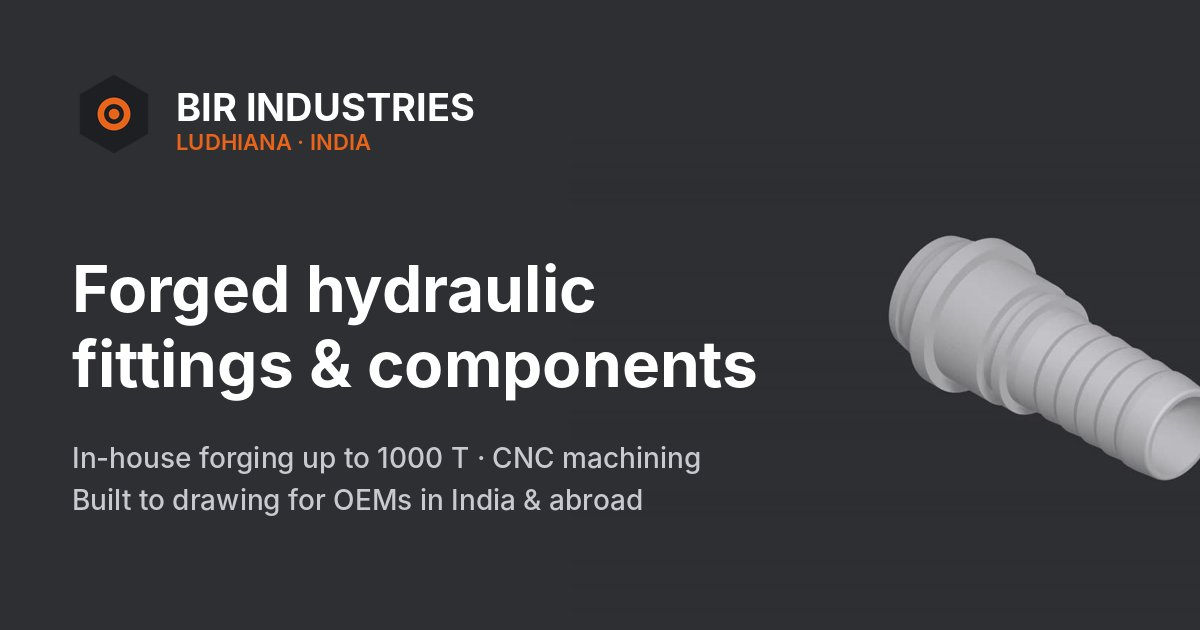
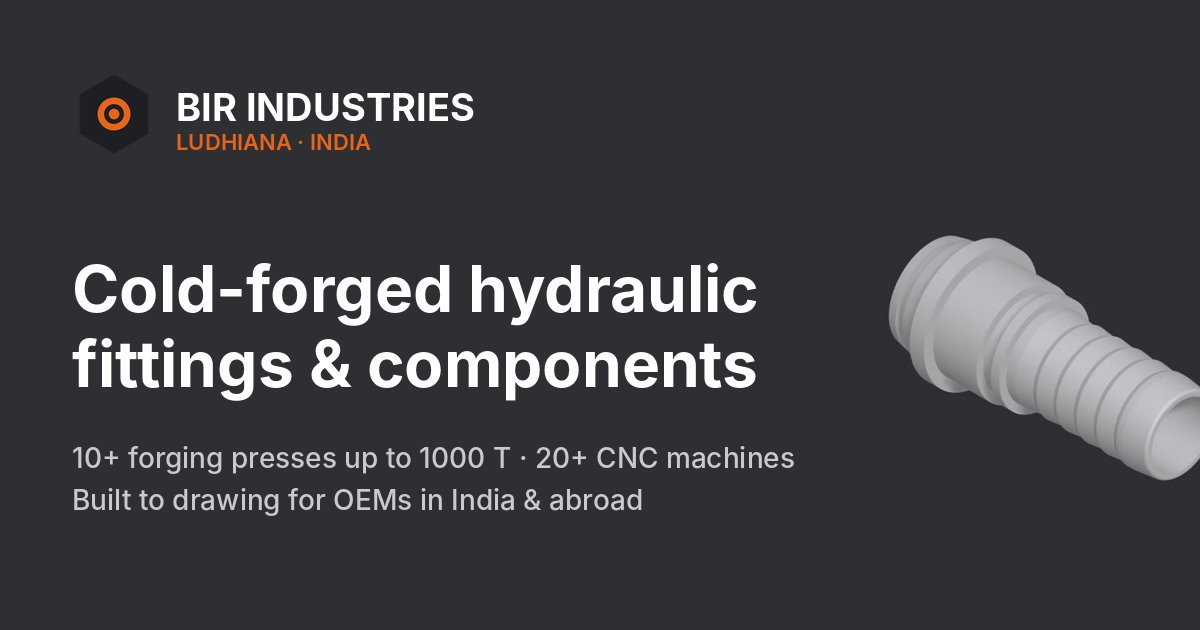
Cold forging, 10+ presses / 20+ CNC, real product photos
- Corrected process to cold forging throughout
- Updated capacity: 10+ cold forging presses up to 1000 T, 20+ CNC machines
- Added 'From our production floor' gallery and About photo (cropped, watermark-free)
- Added sales number +91 99887 73789

Claude-Session: https://claude.ai/code/session_01LtcHUoXVj2XuhRzJFuwNnT

Changed region(s): [[0.0617, 0.4222, 0.6475, 0.5127], [0.0617, 0.6937, 0.6783, 0.754]]

diff --git a/index.html b/index.html
@@ -4,8 +4,8 @@
   <meta charset="UTF-8">
   <meta name="viewport" content="width=device-width, initial-scale=1">
   <title>BIR Industries | Forged Hydraulic Fittings Manufacturer, Ludhiana, India</title>
-  <meta name="description" content="BIR Industries, Ludhiana (Punjab, India): manufacturer of closed-die forged and CNC-machined hydraulic hose ferrules, hose nipples, hex nuts, bent tubes and custom forgings. In-house 1000 T and 630 T forging presses. Supplying OEMs across India and export customers.">
-  <meta name="keywords" content="hydraulic fittings manufacturer India, forged fittings Ludhiana, hydraulic hose ferrule manufacturer, hose nipple manufacturer, hex nut forging, closed die forging Punjab, CNC machined components Ludhiana, hydraulic fittings exporter India">
+  <meta name="description" content="BIR Industries, Ludhiana (Punjab, India): manufacturer of cold-forged and CNC-machined hydraulic hose ferrules, hose nipples, hex nuts, bent tubes and custom components. 10+ cold forging presses up to 1000 T and 20+ CNC machines in-house. Supplying OEMs across India and export customers.">
+  <meta name="keywords" content="hydraulic fittings manufacturer India, forged fittings Ludhiana, hydraulic hose ferrule manufacturer, hose nipple manufacturer, hex nut forging, cold forging Punjab, CNC machined components Ludhiana, hydraulic fittings exporter India">
   <meta name="author" content="BIR Industries">
   <meta name="theme-color" content="#2e2f33">
   <link rel="canonical" href="https://www.birindustries.in/">
@@ -14,7 +14,7 @@
   <meta property="og:type" content="website">
   <meta property="og:site_name" content="BIR Industries">
   <meta property="og:title" content="BIR Industries | Forged Hydraulic Fittings, Ludhiana, India">
-  <meta property="og:description" content="Closed-die forged and CNC-machined hydraulic fittings and components, built to drawing for OEMs in India and abroad.">
+  <meta property="og:description" content="Cold-forged and CNC-machined hydraulic fittings and components, built to drawing for OEMs in India and abroad.">
   <meta property="og:url" content="https://www.birindustries.in/">
   <meta property="og:image" content="https://www.birindustries.in/assets/img/og-image.jpg">
   <meta property="og:image:width" content="1200">
@@ -46,7 +46,7 @@
     "@type": "LocalBusiness",
     "@id": "https://www.birindustries.in/#company",
     "name": "BIR Industries",
-    "description": "Manufacturer of closed-die forged and CNC-machined hydraulic fittings and components.",
+    "description": "Manufacturer of cold-forged and CNC-machined hydraulic fittings and components.",
     "url": "https://www.birindustries.in/",
     "logo": "https://www.birindustries.in/assets/img/icon-512.png",
     "image": "https://www.birindustries.in/assets/img/og-image.jpg",
@@ -69,9 +69,10 @@
     "contactPoint": [
       {"@type": "ContactPoint", "telephone": "+91-98728-12819", "contactType": "sales", "areaServed": ["IN","Worldwide"], "availableLanguage": ["English","Hindi","Punjabi"]},
       {"@type": "ContactPoint", "telephone": "+91-80546-40085", "contactType": "sales", "availableLanguage": ["English","Hindi","Punjabi"]},
+      {"@type": "ContactPoint", "telephone": "+91-99887-73789", "contactType": "sales", "availableLanguage": ["English","Hindi","Punjabi"]},
       {"@type": "ContactPoint", "telephone": "+91-92165-49785", "contactType": "customer service", "availableLanguage": ["English","Hindi","Punjabi"]}
     ],
-    "knowsAbout": ["Closed-die forging", "CNC turning", "Hydraulic hose fittings", "Hydraulic ferrules", "Hose nipples", "Hex nuts", "Bent tubes"]
+    "knowsAbout": ["Cold forging", "CNC turning", "Hydraulic hose fittings", "Hydraulic ferrules", "Hose nipples", "Hex nuts", "Bent tubes"]
   }
   </script>
 </head>
@@ -139,7 +140,7 @@
   </video>
   <div class="hero-shade"></div>
   <div class="wrap hero-inner">
-    <p class="eyebrow">Closed-die forging · CNC machining · Ludhiana, India</p>
+    <p class="eyebrow">Cold forging · CNC machining · Ludhiana, India</p>
     <h1 id="hero-title">Forged hydraulic fittings, built to your drawing.</h1>
     <p class="hero-lead">From steel billet to finished, inspected component under one roof. BIR Industries forges and machines hose ferrules, hose nipples, hex nuts and custom components for OEMs and hose-assembly makers across India and overseas.</p>
     <div class="hero-actions">
@@ -150,8 +151,8 @@
   <div class="hero-facts">
     <div class="wrap facts-grid">
       <div class="fact"><span class="fact-num">1000<small>T</small></span><span class="fact-label">Largest forging press</span></div>
-      <div class="fact"><span class="fact-num">3</span><span class="fact-label">Forging presses on site</span></div>
-      <div class="fact"><span class="fact-num">CNC</span><span class="fact-label">In-house turning &amp; finishing</span></div>
+      <div class="fact"><span class="fact-num">10<small>+</small></span><span class="fact-label">Cold forging presses</span></div>
+      <div class="fact"><span class="fact-num">20<small>+</small></span><span class="fact-label">CNC machines in-house</span></div>
       <div class="fact"><span class="fact-num">100<small>%</small></span><span class="fact-label">Made in India, forge-to-finish</span></div>
     </div>
   </div>
@@ -178,10 +179,14 @@
     <div>
       <p class="kicker">About BIR Industries</p>
       <h2 id="about-title">An integrated forge-to-finish manufacturer from India's engineering heartland.</h2>
+      <figure class="about-photo">
+        <picture><source srcset="assets/img/fitting-set.webp" type="image/webp"><img src="assets/img/fitting-set.jpg" alt="Zinc-plated hose nipples, ferrules and hex nuts made by BIR Industries" width="1200" height="500" loading="lazy"></picture>
+        <figcaption>Nipples, ferrules and nuts from our production, zinc plated</figcaption>
+      </figure>
     </div>
     <div class="about-copy">
       <p>BIR Industries is a manufacturer of hydraulic fittings and forged engineering components, located in Industrial Area C, Giaspura, Ludhiana, one of India's largest hubs for forging, fasteners and tractor components.</p>
-      <p>We control every critical step ourselves: billet cutting, closed-die forging on presses up to 1000 tonnes, CNC turning, threading, inspection and packing. Owning the whole process lets us hold tight tolerances, react quickly to schedule changes and keep pricing competitive for both domestic and international buyers.</p>
+      <p>We control every critical step ourselves: billet cutting, cold forging on more than 10 presses of up to 1000 tonnes, CNC turning on more than 20 CNC machines, threading, inspection and packing. Owning the whole process lets us hold tight tolerances, react quickly to schedule changes and keep pricing competitive for both domestic and international buyers.</p>
       <p>Every part starts as a 3D model, which is why you can examine our products in 3D below. Share your drawing or sample and we will forge and machine it to your specification.</p>
       <ul class="ticks">
         <li><svg class="ic"><use href="#i-check"/></svg>Forging, machining and inspection in-house</li>
@@ -216,7 +221,7 @@
           <h3>Hose Ferrule <span>(Socket / Cap)</span></h3>
           <p>Forged sleeve that is crimped or swaged over the hose to lock it onto the nipple. Internal serrations or threads are machined for a secure, leak-free grip at working pressure.</p>
           <dl class="specs">
-            <div><dt>Process</dt><dd>Closed-die forged, CNC turned</dd></div>
+            <div><dt>Process</dt><dd>Cold forged, CNC turned</dd></div>
             <div><dt>Types</dt><dd>Crimp (skive / non-skive), reusable screw-on</dd></div>
             <div><dt>Hose</dt><dd>Suited to SAE 100R / EN 853 / EN 857 hose</dd></div>
           </dl>
@@ -252,9 +257,9 @@
         </div>
         <div class="product-body">
           <h3>Hydraulic Hex Nut <span>(Swivel Nut)</span></h3>
-          <p>Hot-forged hex nuts with full grain flow for strength, machined with internal threads and retaining grooves for swivel fittings and tube connectors.</p>
+          <p>Cold-forged hex nuts with unbroken grain flow for strength, machined with internal threads and retaining grooves for swivel fittings and tube connectors.</p>
           <dl class="specs">
-            <div><dt>Process</dt><dd>Hot forged, CNC threaded &amp; grooved</dd></div>
+            <div><dt>Process</dt><dd>Cold forged, CNC threaded &amp; grooved</dd></div>
             <div><dt>Threads</dt><dd>BSP, UNF (JIC/ORFS), metric</dd></div>
             <div><dt>Hex</dt><dd>Sizes as per drawing or standard</dd></div>
           </dl>
@@ -281,10 +286,41 @@
       </article>
     </div>
 
+    <div class="parts-head">
+      <h3>From our production floor</h3>
+      <p>Actual parts made at our Ludhiana works, cold forged, CNC machined and zinc plated.</p>
+    </div>
+    <div class="parts-gallery">
+      <button class="g-item p-item p-wide" data-type="image" data-src="assets/img/ferrules-crimp.jpg" data-caption="Zinc-plated crimp ferrules">
+        <picture><source srcset="assets/img/ferrules-crimp.webp" type="image/webp"><img src="assets/img/ferrules-crimp.jpg" alt="Zinc-plated crimp ferrules" loading="lazy" width="1200" height="567"></picture>
+        <span class="g-cap">Crimp ferrules</span>
+      </button>
+      <button class="g-item p-item p-tall" data-type="image" data-src="assets/img/hose-nipples.jpg" data-caption="Barbed hose nipples in bulk">
+        <picture><source srcset="assets/img/hose-nipples.webp" type="image/webp"><img src="assets/img/hose-nipples.jpg" alt="Barbed hose nipples in bulk" loading="lazy" width="683" height="1200"></picture>
+        <span class="g-cap">Hose nipples</span>
+      </button>
+      <button class="g-item p-item " data-type="image" data-src="assets/img/ferrules-threaded.jpg" data-caption="Internally threaded ferrules">
+        <picture><source srcset="assets/img/ferrules-threaded.webp" type="image/webp"><img src="assets/img/ferrules-threaded.jpg" alt="Internally threaded ferrules" loading="lazy" width="1102" height="1200"></picture>
+        <span class="g-cap">Threaded ferrules</span>
+      </button>
+      <button class="g-item p-item " data-type="image" data-src="assets/img/hex-nuts.jpg" data-caption="Zinc-plated hydraulic hex nuts">
+        <picture><source srcset="assets/img/hex-nuts.webp" type="image/webp"><img src="assets/img/hex-nuts.jpg" alt="Zinc-plated hydraulic hex nuts" loading="lazy" width="1102" height="1200"></picture>
+        <span class="g-cap">Hex nuts</span>
+      </button>
+      <button class="g-item p-item " data-type="image" data-src="assets/img/spiral-fittings.jpg" data-caption="Straight and bent fittings for 1-1/4" spiral hose">
+        <picture><source srcset="assets/img/spiral-fittings.webp" type="image/webp"><img src="assets/img/spiral-fittings.jpg" alt="Straight and bent fittings for 1-1/4" spiral hose" loading="lazy" width="576" height="483"></picture>
+        <span class="g-cap">Spiral hose fittings</span>
+      </button>
+      <button class="g-item p-item " data-type="image" data-src="assets/img/ferrules-bulk.jpg" data-caption="Ferrules ready for dispatch">
+        <picture><source srcset="assets/img/ferrules-bulk.webp" type="image/webp"><img src="assets/img/ferrules-bulk.jpg" alt="Ferrules ready for dispatch" loading="lazy" width="1138" height="1200"></picture>
+        <span class="g-cap">Ferrules</span>
+      </button>
+    </div>
+
     <div class="custom-band">
       <div>
         <h3>Need something else? We forge to your drawing.</h3>
-        <p>Adaptors, unions, banjos, elbows, tees, flanges and other closed-die forgings and turned parts. Send a drawing (PDF, DWG, DXF, STEP) or a sample for a feasibility review and quotation.</p>
+        <p>Adaptors, unions, banjos, elbows, tees, flanges and other cold-forged and CNC-turned parts. Send a drawing (PDF, DWG, DXF, STEP) or a sample for a feasibility review and quotation.</p>
       </div>
       <a href="#rfq" class="btn btn-primary">Send your drawing <svg class="ic"><use href="#i-arrow"/></svg></a>
     </div>
@@ -318,8 +354,8 @@
     <ol class="process">
       <li><span class="step">01</span><h4>Design &amp; tooling</h4><p>Drawing review and 3D modelling; forging dies and machining programmes developed for each part.</p></li>
       <li><span class="step">02</span><h4>Material &amp; cutting</h4><p>Steel bar verified against mill certificates, then cut to weight-controlled billets on automatic circular saws.</p></li>
-      <li><span class="step">03</span><h4>Closed-die forging</h4><p>Billets heated and forged on 1000 T and 630 T presses for dense, continuous grain flow.</p></li>
-      <li><span class="step">04</span><h4>CNC machining</h4><p>Bores, seats, threads and grooves turned on CNC lathes to drawing tolerances.</p></li>
+      <li><span class="step">03</span><h4>Cold forging</h4><p>Billets formed at room temperature on knuckle-joint presses up to 1000 T: near-net shape, strong grain flow, clean surface and minimal scrap.</p></li>
+      <li><span class="step">04</span><h4>CNC machining</h4><p>Bores, seats, threads and grooves finished on 20+ CNC machines to drawing tolerances.</p></li>
       <li><span class="step">05</span><h4>Finishing</h4><p>Deburring, cleaning and surface treatment to the specified finish.</p></li>
       <li><span class="step">06</span><h4>Inspection &amp; dispatch</h4><p>Dimensional and thread gauge checks, batch labelling, protective packing and dispatch.</p></li>
     </ol>
@@ -330,10 +366,9 @@
         <table class="infra-table">
           <thead><tr><th scope="col">Equipment</th><th scope="col">Capacity</th><th scope="col">Used for</th></tr></thead>
           <tbody>
-            <tr><td>Forging press</td><td class="mono">1000 T</td><td>Larger ferrules, nuts and heavy forgings</td></tr>
-            <tr><td>Forging presses</td><td class="mono">2 × 630 T</td><td>Medium and small closed-die forgings</td></tr>
+            <tr><td>Cold forging presses</td><td class="mono">10+</td><td>Knuckle-joint presses up to 1000 T for ferrules, nipples and nuts</td></tr>
             <tr><td>Automatic circular saw</td><td class="mono">Bar to billet</td><td>Precise, burr-free billet cutting</td></tr>
-            <tr><td>CNC turning centres</td><td class="mono">Precision turning</td><td>Bores, seats, threads and grooves</td></tr>
+            <tr><td>CNC machines</td><td class="mono">20+</td><td>Bores, seats, threads and grooves</td></tr>
             <tr><td>3D CAD / design</td><td class="mono">In-house</td><td>Part modelling, die design, customer review</td></tr>
             <tr><td>Stores &amp; warehouse</td><td class="mono">Bin-labelled</td><td>Ready stock of forgings and finished parts</td></tr>
           </tbody>
@@ -341,12 +376,12 @@
       </div>
 
       <div class="gallery" id="gallery">
-        <button class="g-item g-tall" data-type="video" data-src="assets/media/forge.mp4" data-caption="Closed-die forging in progress">
-          <img src="assets/media/forge.jpg" alt="Forging press striking a hot billet" loading="lazy" width="478" height="850">
+        <button class="g-item g-tall" data-type="video" data-src="assets/media/forge.mp4" data-caption="Cold forging in progress">
+          <img src="assets/media/forge.jpg" alt="Cold forging press forming a steel billet" loading="lazy" width="478" height="850">
           <span class="g-play"><svg class="ic"><use href="#i-play"/></svg></span>
           <span class="g-cap">Forging in action</span>
         </button>
-        <button class="g-item g-tall" data-type="image" data-src="assets/img/1000.jpg" data-caption="1000-tonne forging press">
+        <button class="g-item g-tall" data-type="image" data-src="assets/img/1000.jpg" data-caption="1000-tonne cold forging press">
           <picture><source srcset="assets/img/1000.webp" type="image/webp"><img src="assets/img/1000.jpg" alt="1000 tonne KJP forging press with billets ready to forge" loading="lazy" width="675" height="1200"></picture>
           <span class="g-cap">1000 T press</span>
         </button>
@@ -355,7 +390,7 @@
           <span class="g-play"><svg class="ic"><use href="#i-play"/></svg></span>
           <span class="g-cap">Billet cutting</span>
         </button>
-        <button class="g-item g-tall" data-type="image" data-src="assets/img/600ton1.jpg" data-caption="630-tonne forging press with forged blanks">
+        <button class="g-item g-tall" data-type="image" data-src="assets/img/600ton1.jpg" data-caption="630-tonne cold forging press with forged blanks">
           <picture><source srcset="assets/img/600ton1.webp" type="image/webp"><img src="assets/img/600ton1.jpg" alt="630 tonne forging press with a tray of forged blanks" loading="lazy" width="675" height="1200"></picture>
           <span class="g-cap">630 T press</span>
         </button>
@@ -492,6 +527,7 @@
             <div><span>Bir Parkash</span><a href="tel:+919872812819">+91 98728 12819</a></div>
             <div><span>Parwar Bansal</span><a href="tel:+918054640085">+91 80546 40085</a></div>
             <div><span>Jyoti Parkash</span><a href="tel:+919216549785">+91 92165 49785</a></div>
+            <div><span>Sales</span><a href="tel:+919988773789">+91 99887 73789</a></div>
           </div>
         </div>
         <div class="c-row"><svg class="ic"><use href="#i-mail"/></svg><div><a href="mailto:mehak085@hotmail.com">mehak085@hotmail.com</a></div></div>
@@ -512,7 +548,7 @@
   <div class="wrap footer-grid">
     <div class="f-brand">
       <a href="#top" class="brand brand-light"><img src="assets/img/mark.svg" alt="" width="36" height="36"><span class="brand-text"><strong>BIR INDUSTRIES</strong><small>Ludhiana · India</small></span></a>
-      <p>Closed-die forged and CNC-machined hydraulic fittings and engineering components, made in India for customers in India and worldwide.</p>
+      <p>Cold-forged and CNC-machined hydraulic fittings and engineering components, made in India for customers in India and worldwide.</p>
     </div>
     <div>
       <h4>Products</h4>

diff --git a/style.css b/style.css
@@ -206,6 +206,20 @@ model-viewer { width: 100%; height: 260px; --poster-color: transparent; backgrou
 .mat { border-top: 2px solid var(--ink); padding-top: 16px; }
 .mat p { color: #474c54; font-size: .95rem; margin: 0; }
 
+/* About photo */
+.about-photo { margin: 32px 0 0; }
+.about-photo img { width: 100%; height: auto; border-radius: var(--radius); aspect-ratio: 12 / 5; object-fit: cover; }
+.about-photo figcaption { font-size: .85rem; color: var(--muted); margin-top: 8px; }
+
+/* Finished parts gallery */
+.parts-head { margin: 56px 0 18px; display: flex; align-items: baseline; justify-content: space-between; gap: 8px 24px; flex-wrap: wrap; }
+.parts-head h3 { margin: 0; font-size: 1.7rem; }
+.parts-head p { margin: 0; color: var(--muted); }
+.parts-gallery { display: grid; grid-template-columns: repeat(4, 1fr); grid-auto-rows: 230px; gap: 12px; }
+.p-item.p-wide { grid-column: span 2; }
+.p-item.p-tall { grid-row: span 2; }
+.p-item picture { display: block; width: 100%; height: 100%; }
+
 /* ---------- Manufacturing ---------- */
 .process { list-style: none; margin: 0 0 64px; padding: 0; display: grid; grid-template-columns: repeat(6, 1fr); gap: 0; counter-reset: s; }
 .process li { padding: 0 20px 0 0; position: relative; }
@@ -392,6 +406,7 @@ dialog::backdrop { background: rgba(10,11,13,.82); backdrop-filter: blur(3px); }
   .process { grid-template-columns: 1fr 1fr; }
   .process li::before { display: none; }
   .gallery { grid-template-columns: 1fr 1fr; }
+  .parts-gallery { grid-template-columns: 1fr 1fr; grid-auto-rows: 160px; }
   .rfq-form { grid-template-columns: 1fr; padding: 22px 18px; }
   .form-actions .btn { width: 100%; justify-content: center; }
   .footer-grid { grid-template-columns: 1fr; gap: 28px; }
